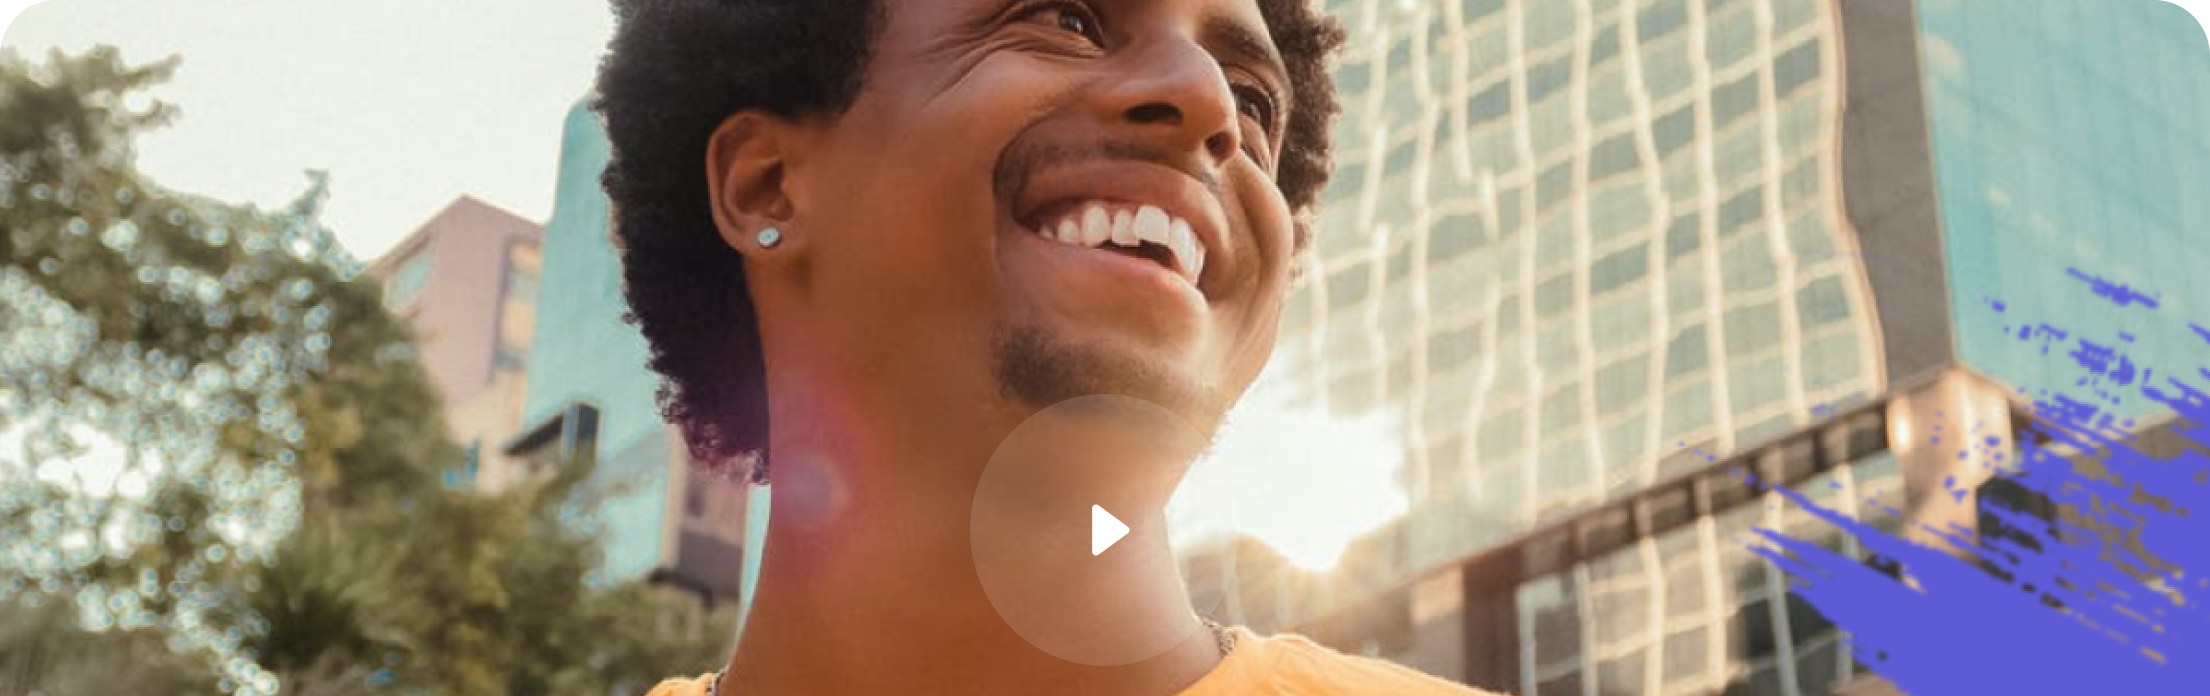
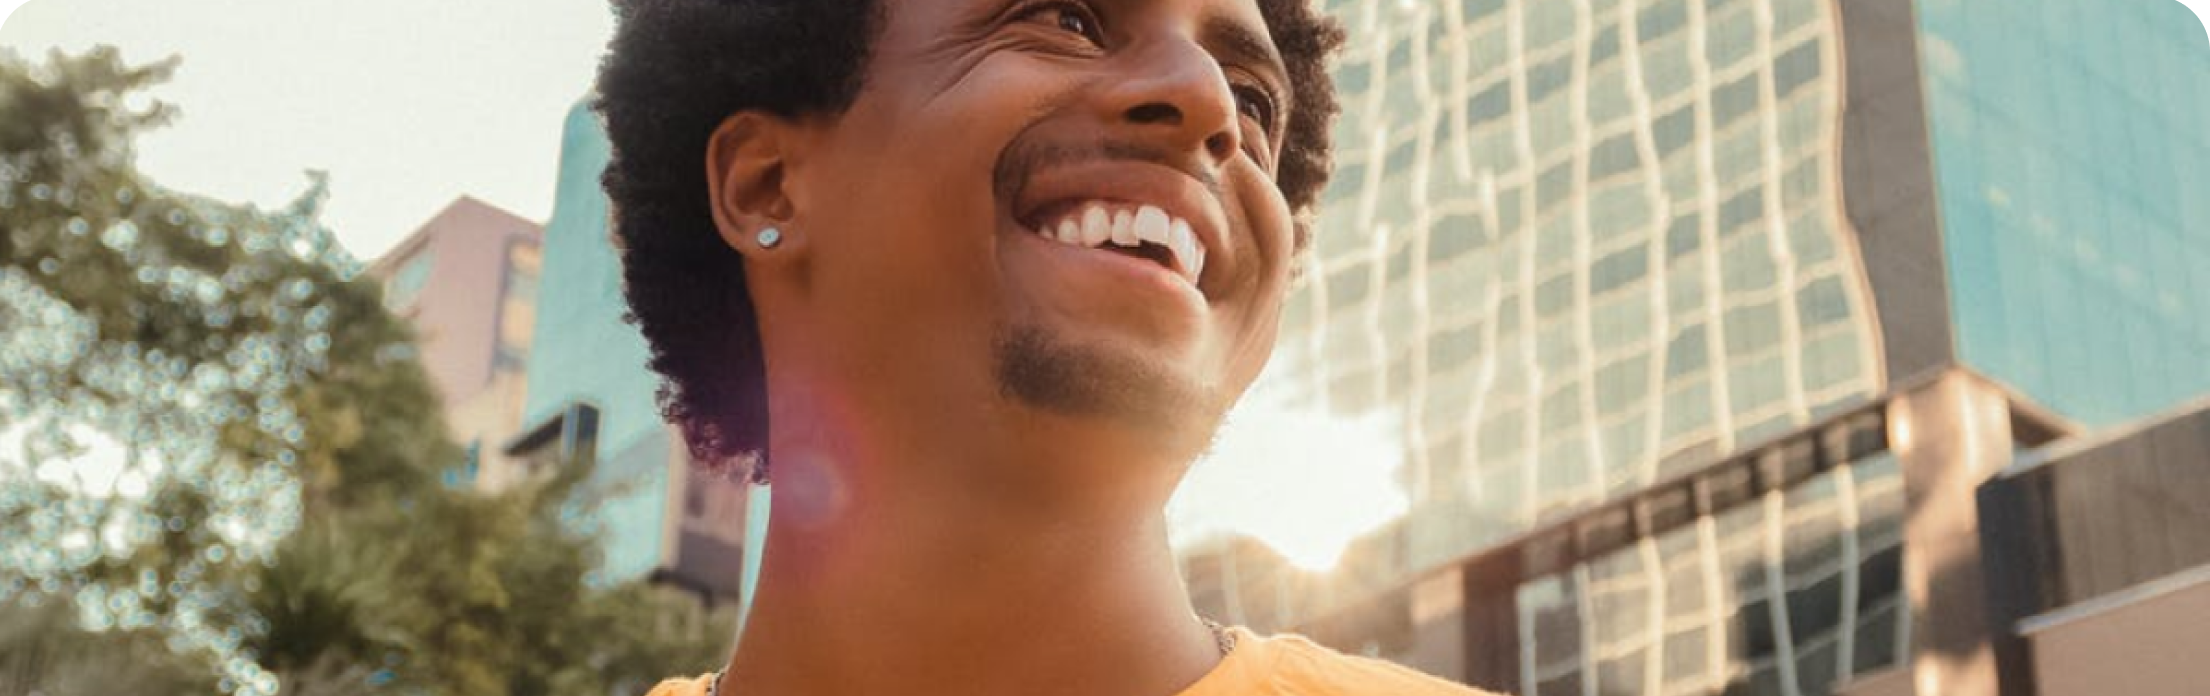
Final changes and we are good to deploy

diff --git a/src/components/Header.tsx b/src/components/Header.tsx
@@ -1,13 +1,38 @@
 import React, { useState, useEffect, useRef } from "react";
-import { NavLink } from "react-router-dom";
+import { NavLink, useLocation } from "react-router-dom";
 import { Link } from "react-scroll";
 import { motion, useMotionValue, useSpring, useAnimation } from "framer-motion";
 
 import HamburgerIcon from "./HamburgerIcon";
-import logo from "../assets/logoWhite.svg";
+import logoWhite from "../assets/logoWhite.svg";
+import logoColoured from "../assets/logo.svg";
 import { menuItems } from "../data/menuItems";
 
 const Header: React.FC = () => {
+  const { pathname } = useLocation(); // Get the current pathname
+  const [logo, setLogo] = useState(logoWhite);
+  const [textColor, setTextColor] = useState("#fff");
+  const [buttonColor, setButtonColor] = useState("#fff");
+  const [bgColor, setBgColor] = useState("#fff");
+  const [menuColor, setMenuColor] = useState("#fff");
+
+  useEffect(() => {
+    // Check the pathname and set the logo and text color accordingly
+    if (pathname === "/speakers") {
+      setLogo(logoColoured);
+      setTextColor("#070F18");
+      setButtonColor("#fff");
+      setBgColor("#5D5CD6");
+      setMenuColor("#fff");
+    } else {
+      setLogo(logoWhite);
+      setTextColor("#fff");
+      setButtonColor("#5D5CD6");
+      setBgColor("#fff");
+      setMenuColor("#5D5CD6");
+    }
+  }, [pathname]);
+
   // State and Refs
   const [navOpen, setNavOpen] = useState(false);
   const [isAnimating, setIsAnimating] = useState(false);
@@ -49,10 +74,10 @@ const Header: React.FC = () => {
   }, [controls, isAnimating]);
 
   return (
-    <header className={`w-full z-20 bg-[#5a59d4]`}>
+    <header className={`w-full z-20`} style={{ color: textColor }}>
       <nav>
         {/* Desktop Menu */}
-        <div className="flex justify-between lg:justify-between py-12 max-md:py-8 lg:py-8 items-center px-7 xl:px-[102px] sm:px-[64px] font-poppins mx-auto max-w-[1500px]">
+        <div className="flex justify-between lg:justify-between pt-12 max-md:pt-8 lg:pt-8 items-center px-7 xl:px-[102px] sm:px-[64px] font-poppins mx-auto max-w-[1500px]">
           <NavLink
             to={"/"}
             onClick={() => {
@@ -76,7 +101,7 @@ const Header: React.FC = () => {
                 {menuItems.map((item) => (
                   <li
                     key={item.key}
-                    className={`font-normal underline-offset-8 transition-all cursor-pointer hover:scale-105 text-white ${
+                    className={`font-normal underline-offset-8 transition-all cursor-pointer hover:scale-105 z-20 ${
                       window.location.pathname === item.where
                         ? "underline"
                         : "no-underline"
@@ -101,9 +126,12 @@ const Header: React.FC = () => {
             href="https://forms.gle/ZztYnDQmu8MMTPdE9"
             target="_blank"
             rel="noopener noreferrer"
-            className="hidden transition-all donate lg:block hover:scale-110"
+            className="hidden transition-all donate lg:block hover:scale-110 z-20"
           >
-            <button className="bg-white w-[150px] rounded-[10px] py-3 text-[#5D5CD6]">
+            <button
+              className="w-[150px] rounded-[10px] py-3"
+              style={{ color: buttonColor, backgroundColor: bgColor }}
+            >
               Register NOW!
             </button>
           </a>
@@ -113,15 +141,15 @@ const Header: React.FC = () => {
             onClick={handleNavClick}
           >
             <div className="mobile-icon">
-              <HamburgerIcon isOpen={navOpen} />
+              <HamburgerIcon isOpen={navOpen} color={bgColor} />
             </div>
           </div>
         </div>
 
         {/* Mobile Menu Items */}
         <motion.div
-          className="relative overflow-hidden bg-[#5a59d4]"
-          style={{ height: menuSpring }}
+          className="relative overflow-hidden pt-7"
+          style={{ height: menuSpring, backgroundColor: menuColor }}
           ref={menuRef}
         >
           <ul className="text-left px-7 sm:px-[62px] font-poppins pb-36 pt-4">
@@ -133,7 +161,7 @@ const Header: React.FC = () => {
                 style={{ transitionDelay: `${item.key * 100}ms` }}
                 className={`hover:scale-105 ${
                   !navOpen && "hidden"
-                } border-light-purple underline-offset-8 text-white font-normal py-3 text-2xl transform transition-all ease-in-out duration-500 ${
+                } border-light-purple underline-offset-8 font-normal py-3 text-2xl transform transition-all ease-in-out duration-500 ${
                   window.location.pathname === item.where
                     ? "underline"
                     : "no-underline"
@@ -182,7 +210,10 @@ const Header: React.FC = () => {
             rel="noopener noreferrer"
             className="absolute w-full transition-all donate bottom-10 hover:scale-110 px-7 sm:px-[62px]"
           >
-            <button className="bg-white w-full rounded-[10px] py-3 text-[#5D5CD6]">
+            <button
+              className="w-full rounded-[10px] py-3"
+              style={{ color: buttonColor, backgroundColor: bgColor }}
+            >
               Register NOW!
             </button>
           </a>

diff --git a/src/components/Home/Hero.tsx b/src/components/Home/Hero.tsx
@@ -2,10 +2,14 @@ import splash from "../../assets/heroSplash.png";
 import splashBlue from "../../assets/splash.png";
 import art from "../../assets/art.png";
 import { star2 } from "../../assets/icon";
+import hero from "../../assets/hero.png";
+import heroSmall from "../../assets/heroSmall.png";
+import play from "../../assets/play.svg";
 
 const Hero = () => {
   return (
     <>
+      <div className="absolute top-0 left-0 w-full bg-[#5D5CD6] bg-cover h-20 sm:h-28"></div>
       <section className="relative bg-center bg-[url('../assets/heroPattern.svg')] bg-cover w-full overflow-hidden">
         <div className="mt-[82px] max-w-[1500px] px-[102px] max-lg:px-16 max-lg:mb-9 max-md:px-7">
           <div className="flex flex-col lg:items-center w-full ">
@@ -48,16 +52,35 @@ const Hero = () => {
               </a>
             </div>
           </div>
-          <div>
-            <iframe
-              width="100%"
-              height="368"
-              src="https://www.youtube.com/embed/LmbwpDKKoLQ?controls=0"
-              allowFullScreen
-              className="rounded-tl-[28px] rounded-tr-[28px] max-lg:rounded-[28px]"
-              frameBorder="0"
+          <a
+            href="https://youtu.be/LmbwpDKKoLQ"
+            target="_blank"
+            rel="noopener noreferrer"
+            className="relative group"
+          >
+            <img
+              src={hero}
+              alt="hero image"
+              className="w-full m-auto max-lg:hidden"
             />
-          </div>
+            <img
+              src={heroSmall}
+              alt="hero image"
+              className="w-full lg:hidden rounded-[20px]"
+            />
+            <div
+              className="absolute bottom-[50%] left-[50%] transition opacity-0 rounded-full flex items-center justify-center w-[134.93px] h-[136px] drop-shadow-md right-5 group-hover:opacity-100"
+              style={{
+                transform: "translate(-50%, 50%)",
+              }}
+            >
+              <img
+                src={play}
+                className="object-cover hover:scale-110"
+                alt="play icon"
+              />
+            </div>
+          </a>
         </div>
         <div className="absolute -bottom-[70px] max-sm:-bottom-[60px] -right-[10px]">
           <img

diff --git a/src/components/ComingSoon.tsx b/src/components/ComingSoon.tsx
@@ -14,6 +14,16 @@ const ComingSoon = () => {
             <span className="inline-flex">
               <img src={bracket} alt="icon" />
             </span>
+            <span className="flex items-center">
+              Spacer’s Hack Conf 2023
+              <span className="inline-flex">
+                <img src={bracket} alt="icon" />
+              </span>
+              See soon
+              <span className="inline-flex">
+                <img src={bracket} alt="icon" />
+              </span>
+            </span>
           </p>
           <div className="w-7 h-7 justify-center items-center inline-flex">
             <div className="w-7 h-7 relative"></div>
@@ -28,6 +38,16 @@ const ComingSoon = () => {
             See soon
             <span className="inline-flex">
               <img src={bracket} alt="icon" />
+            </span>
+            <span className="flex items-center">
+              Spacer’s Hack Conf 2023
+              <span className="inline-flex">
+                <img src={bracket} alt="icon" />
+              </span>
+              See soon
+              <span className="inline-flex">
+                <img src={bracket} alt="icon" />
+              </span>
             </span>
           </p>
         </div>

diff --git a/src/components/HamburgerIcon.tsx b/src/components/HamburgerIcon.tsx
@@ -2,26 +2,29 @@ import React from "react";
 
 interface InputProps {
   isOpen: boolean;
+  color: string;
 }
-const HamburgerIcon: React.FC<InputProps> = ({ isOpen }) => {
-  const listStyles =
-    "h-[3px] bg-white duration-300 transform transition-transform";
+const HamburgerIcon: React.FC<InputProps> = ({ isOpen, color }) => {
+  const listStyles = "h-[3px] duration-300 transform transition-transform";
 
   return (
     <div className="relative flex flex-col items-end">
       <div
         id="left"
         className={`${listStyles} w-7 ${isOpen && "rotate-45"}`}
+        style={{ backgroundColor: color }}
       ></div>
       <div
         id="hide"
         className={`${listStyles} w-[21px] mt-[6px] ${isOpen && "hidden"}`}
+        style={{ backgroundColor: color }}
       ></div>
       <div
         id="right"
         className={`${listStyles} ${
           isOpen ? "-rotate-45 absolute top-0 w-7" : "w-[14px] mt-[6px]"
         }`}
+        style={{ backgroundColor: color }}
       ></div>
     </div>
   );

diff --git a/src/components/Speakers/Hero.tsx b/src/components/Speakers/Hero.tsx
@@ -5,7 +5,8 @@ import { star2 } from "../../assets/icon";
 const Hero = () => {
   return (
     <>
-      <section className="relative bg-center bg-[url('../assets/speakerPattern.svg')] bg-cover w-full overflow-hidden">
+      <div className="absolute top-0 left-0 w-full bg-[#f8f8fd] bg-cover h-20 sm:h-28"></div>
+      <section className="relative bg-center bg-[url('../assets/speakersPattern.svg')] bg-cover w-full overflow-hidden">
         <div className="pt-[198px] pb-[204px] max-w-[1500px] px-[102px] max-lg:px-16 max-lg:mb-9 max-md:px-7">
           <div className="flex items-center justify-center align-middle w-full ">
             <h1 className="text-indigo-500 font-gelion text-5xl sm:text-[90px] lg:text-[110px] font-bold uppercase sm:leading-[92px]">

diff --git a/src/pages/Home.tsx b/src/pages/Home.tsx
@@ -1,3 +1,5 @@
+import { useEffect } from "react";
+import { ThemeColor, updateThemeColor } from "../utils/Theme";
 import Faq from "../components/Home/Faq/Body";
 import Sponsors from "../components/Sponsors";
 import ComingSoon from "../components/ComingSoon";
@@ -6,6 +8,15 @@ import Goals from "../components/Home/Goals";
 import Services from "../components/Home/Services";
 
 export const Home = () => {
+  useEffect(() => {
+    const themeColor: ThemeColor = "#5D5CD6"; // Set the theme color type explicitly
+
+    updateThemeColor(themeColor); // Set the theme color for this specific page
+
+    return () => {
+      updateThemeColor("#5D5CD6"); // Set the default theme color when leaving this page
+    };
+  }, []);
   return (
     <>
       <Hero />

diff --git a/src/pages/Speakers.tsx b/src/pages/Speakers.tsx
@@ -1,9 +1,20 @@
+import { useEffect } from "react";
+import { ThemeColor, updateThemeColor } from "../utils/Theme";
 import Sponsors from "../components/Sponsors";
 import ComingSoon from "../components/ComingSoon";
 import Hero from "../components/Speakers/Hero";
 import LineUp from "../components/Speakers/LineUp";
 
 export const Speakers = () => {
+  useEffect(() => {
+    const themeColor: ThemeColor = "#F8F8FD"; // Set the theme color type explicitly
+
+    updateThemeColor(themeColor); // Set the theme color for this specific page
+
+    return () => {
+      updateThemeColor("#F8F8FD"); // Set the default theme color when leaving this page
+    };
+  }, []);
   return (
     <>
       <Hero />

diff --git a/src/assets/icon/index.ts b/src/assets/icon/index.ts
@@ -3,7 +3,7 @@ import star2 from "./Star 2.svg";
 import plus from "./plus.svg";
 import minus from "./minus.svg";
 import events from "./events.svg";
-import fun from "./fun.svg";
+import fun from "./network.svg";
 import hackathon from "./hackathon.svg";
 
 export { star1, star2, plus, minus, events, fun, hackathon };

diff --git a/src/utils/Theme.ts b/src/utils/Theme.ts
@@ -1,0 +1,10 @@
+// Theme.ts
+
+export type ThemeColor = string;
+
+export function updateThemeColor(color: ThemeColor) {
+  const themeColorMeta = document.querySelector('meta[name="theme-color"]');
+  if (themeColorMeta) {
+    themeColorMeta.setAttribute("content", color);
+  }
+}
